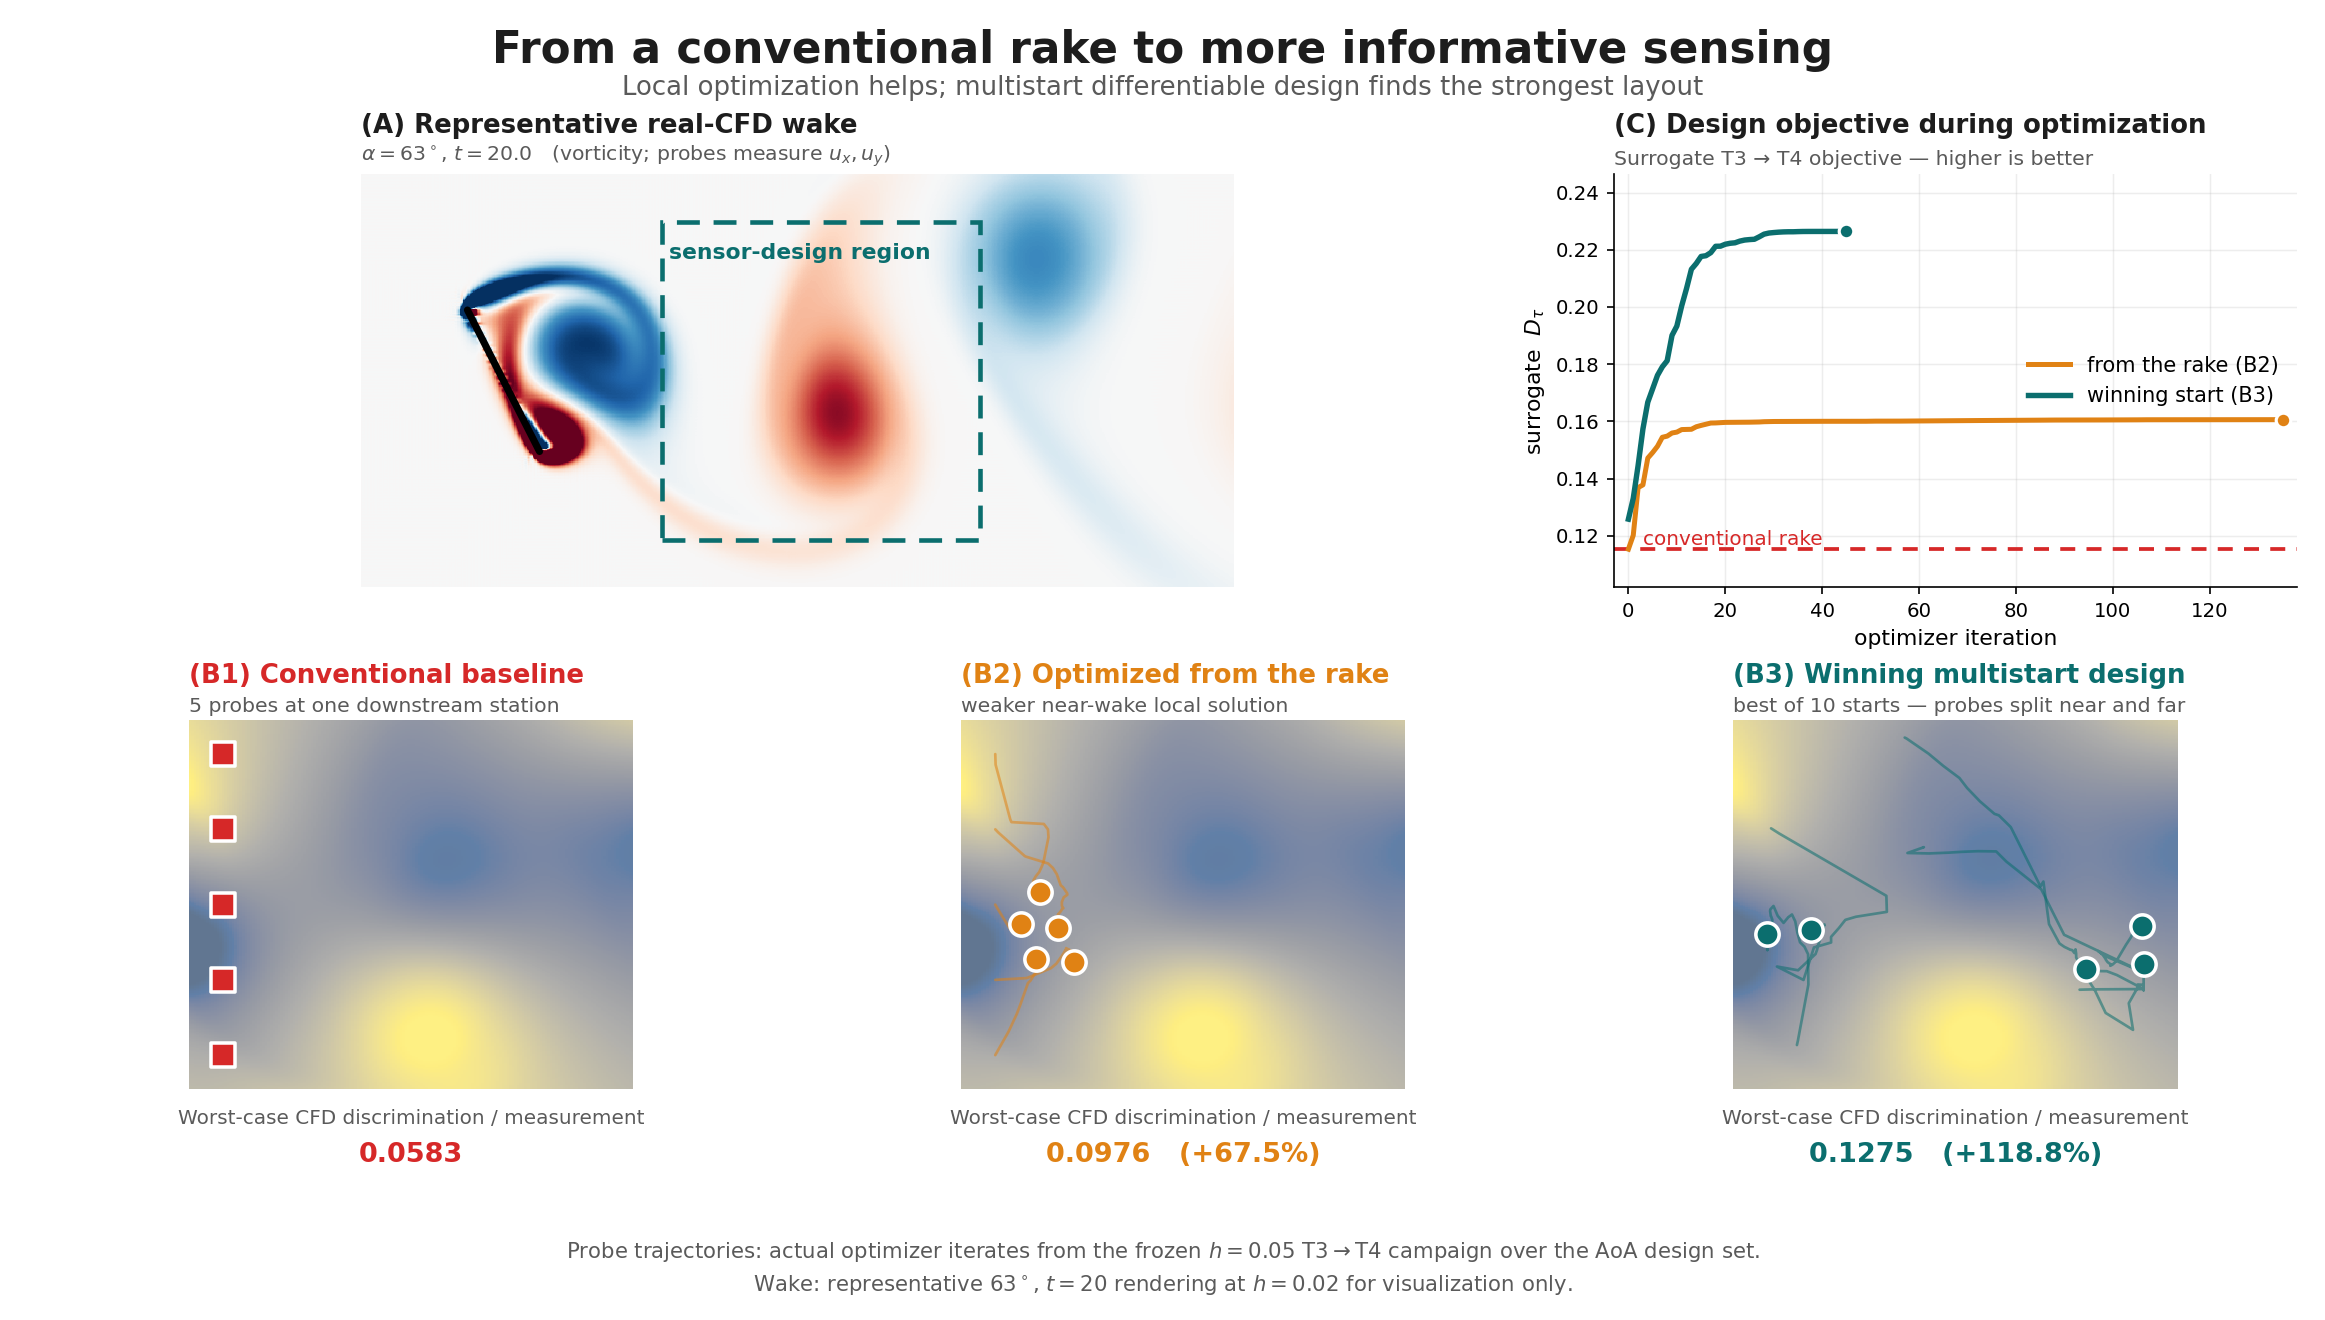
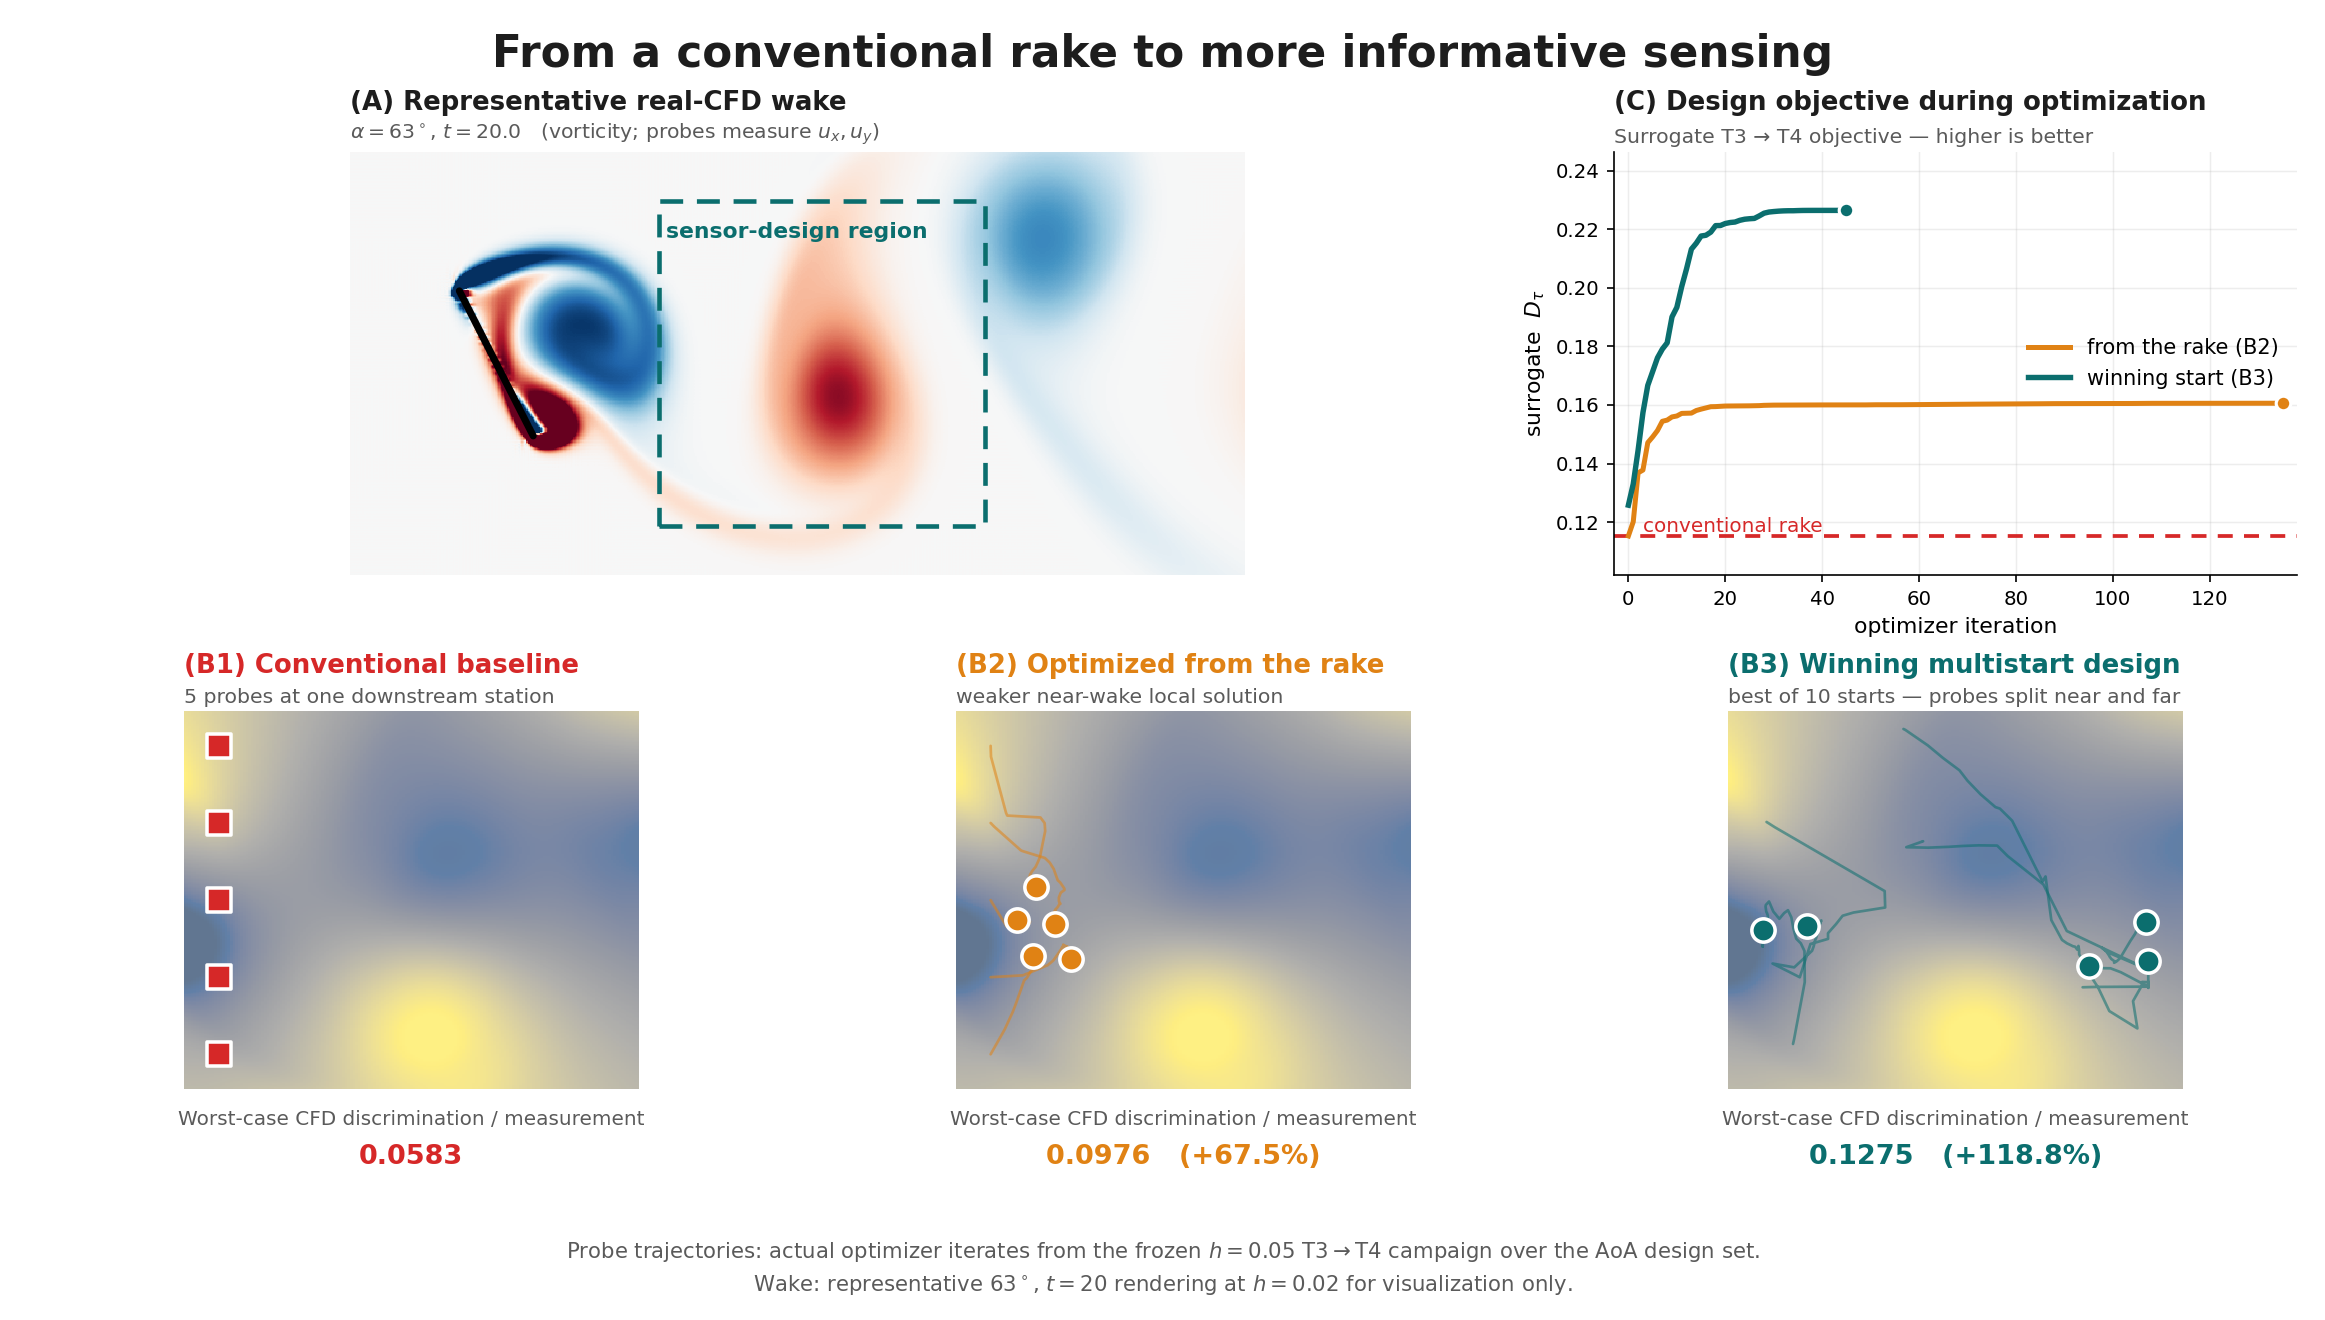
Update README v5

diff --git a/scripts/budget_ablation/plot_hero_multistart_story.py b/scripts/budget_ablation/plot_hero_multistart_story.py
@@ -528,7 +528,7 @@ def render(
         height_ratios=[1.12, 1.0],
         left=0.03,
         right=0.988,
-        top=0.868,
+        top=0.885,
         bottom=0.175,
         wspace=0.13,
         hspace=0.34,
@@ -592,17 +592,8 @@ def render(
         "From a conventional rake to more informative sensing",
         fontsize=21,
         fontweight="bold",
-        y=0.978,
+        y=0.975,
         color=TEXT_COLOR,
-    )
-    fig.text(
-        0.5,
-        0.928,
-        "Local optimization helps; multistart differentiable design finds the "
-        "strongest layout",
-        ha="center",
-        fontsize=12.5,
-        color=MUTED,
     )
     # The still shows one instant; the animation sweeps the whole run on an
     # index that is independent of the optimizer iteration.

diff --git a/README.md b/README.md
@@ -2,7 +2,7 @@
 
 > **Don't just add sensors. Put them where the physics is more informative.**
 
-I present here a differentiable workflow composed of four Tesseracts [1]. It first infers the angle of attack (AoA) of a "hidden" flat plate from a small set of sparse wake probes, and then uses end-to-end gradients to decide *where those probes should be placed* so as to maximize the ability to identify the AoA. The workflow combines immersed-boundary CFD in Julia with a differentiable JAX chain for measurement, surrogate and experimental design.
+This project composes four Tesseracts [1] to infer the angle of attack (AoA) of a "hidden" flat plate from a small set of sparse wake probes, and then uses end-to-end gradients to decide *where those probes should be placed* so as to optimize the ability to identify the AoA. The workflow combines immersed-boundary CFD in Julia with a differentiable JAX chain for measurement, surrogate and experimental design.
 
 <p align="center">
   <img src="results/sensor_budget_ablation/figures/hero_multistart_story.gif"
@@ -10,7 +10,7 @@ I present here a differentiable workflow composed of four Tesseracts [1]. It fir
        width="900">
 </p>
 
-<p align="center"><em><strong>Figure 1.</strong> Local optimization improves the conventional rake, while differentiable design with multiple initializations finds a stronger configuration distributed between the near- and far-wake regions.<br>Probe trajectories come from the frozen T3→T4 campaign at <code>h = 0.05</code>; the α = 63° wake is rendered at <code>h = 0.02</code> for visualization only. Panel A animates the wake over the full simulation, while the optimizer panels advance through optimization iterations on an independent normalized timeline; the two are not synchronized.</em></p>
+<p align="center"><em><strong>Figure 1.</strong> Probe trajectories come from the frozen T3→T4 campaign at <code>h = 0.05</code>; the α = 63° wake is rendered at <code>h = 0.02</code> for visualization only. Panel A animates the wake over the full simulation, while the optimizer panels advance through optimization iterations on an independent normalized timeline; the two are not synchronized.</em></p>
 
 ---
 
@@ -33,6 +33,7 @@ Full methodology, additional validation, held-out experiments, failure cases, li
 - [Quick start](#quick-start)
 - [Reproducing results and figures](#reproducing-results-and-figures)
 - [Testing and reproducibility](#testing-and-reproducibility)
+- [Engineering notes — Tesseract with a minutes-per-call solver](#engineering-notes--tesseract-with-a-minutes-per-call-solver)
 - [Repository layout](#repository-layout)
 - [References](#references)
 - [Track and license](#track-and-license)
@@ -297,6 +298,18 @@ The versions below are pinned because the `.eqx` weights are deserialized agains
 JAX x64 is deliberately not enabled: T2, T3 and T4 run in float32, which caps composed-gradient agreement at roughly `1e-5` relative and is accounted for in every tolerance above.
 
 **Benchmark environment (Result 2).** The 0.79 s / 5.58 s gradient timings were measured through the pinned T3/T4 containers above, which install the CPU-only `jax[cpu]==0.10.2` build — no GPU is used. The host CPU and OS were not recorded alongside the frozen `gradient_scaling.csv`. Absolute timings are therefore machine-dependent; the reported 7.1× comparison was measured on the same machine for both methods, in a single run.
+
+## Engineering notes — Tesseract with a minutes-per-call solver
+
+`tesseract-core` is used unmodified at the pinned 1.11.0 release; nothing here is a fork. Composing a Julia CFD solver with JAX components did expose boundary-level constraints, and working around them shaped the design of this project.
+
+**Reusing expensive component outputs.** A single `T1.apply` at production settings takes about 53 s. Scoring one candidate sensor layout over the 66-AoA evaluation grid would therefore cost roughly 58 minutes of live CFD, and the design optimizer needs 142 such evaluations — on the order of 5.7 days of serial CFD for a single optimization run. Because the probes are passive, sensor position is not an input to T1 and the flow state does not depend on it. T1 is therefore solved once per angle of attack and the fields are persisted; any candidate layout is scored by replaying those fields through `T2.apply`, taking the sensor-position gradient through `T4 VJP → T2 VJP` alone. The mechanistic design loop then runs with no new CFD at all. Tesseract's experimental VJP cache does not cover this case — it is local to JAX recipes, and T1 imports no JAX — so this was reported upstream as [tesseract-core#711](https://github.com/pasteurlabs/tesseract-core/issues/711).
+
+**Derivative endpoints discard reusable work.** `T1.jacobian` forms its central difference internally, so the two full CFD solutions it computes are discarded at the container boundary. The application-level route that calls `apply` twice produces the same derivative to `3.55e-07` relative while keeping both fields: the more Tesseract-native composition is the one that throws away more reusable work. Both routes are implemented and selected per study, which is what made the comparison measurable in the first place.
+
+**float32 regression fixtures are not bit-portable.** The T3 fixtures failed CI on a different machine. The cause was traced to instruction-set-dependent XLA float32 results rather than dependency drift, and the fixtures now carry `atol = rtol = 1e-5`; the framework default `atol = 1e-8` is a float64-scale tolerance applied regardless of output dtype.
+
+**T1 exposes no `abstract_eval`.** Immersa's output grid is solver-determined — `h = 0.05` yields `(141, 60)` and `h = 0.02` yields `(353, 152)`, which no simple function of `h` predicts — so T1 provides the explicit Jacobian/JVP interface rather than claiming to be statically traceable.
 
 ## Repository layout
 
